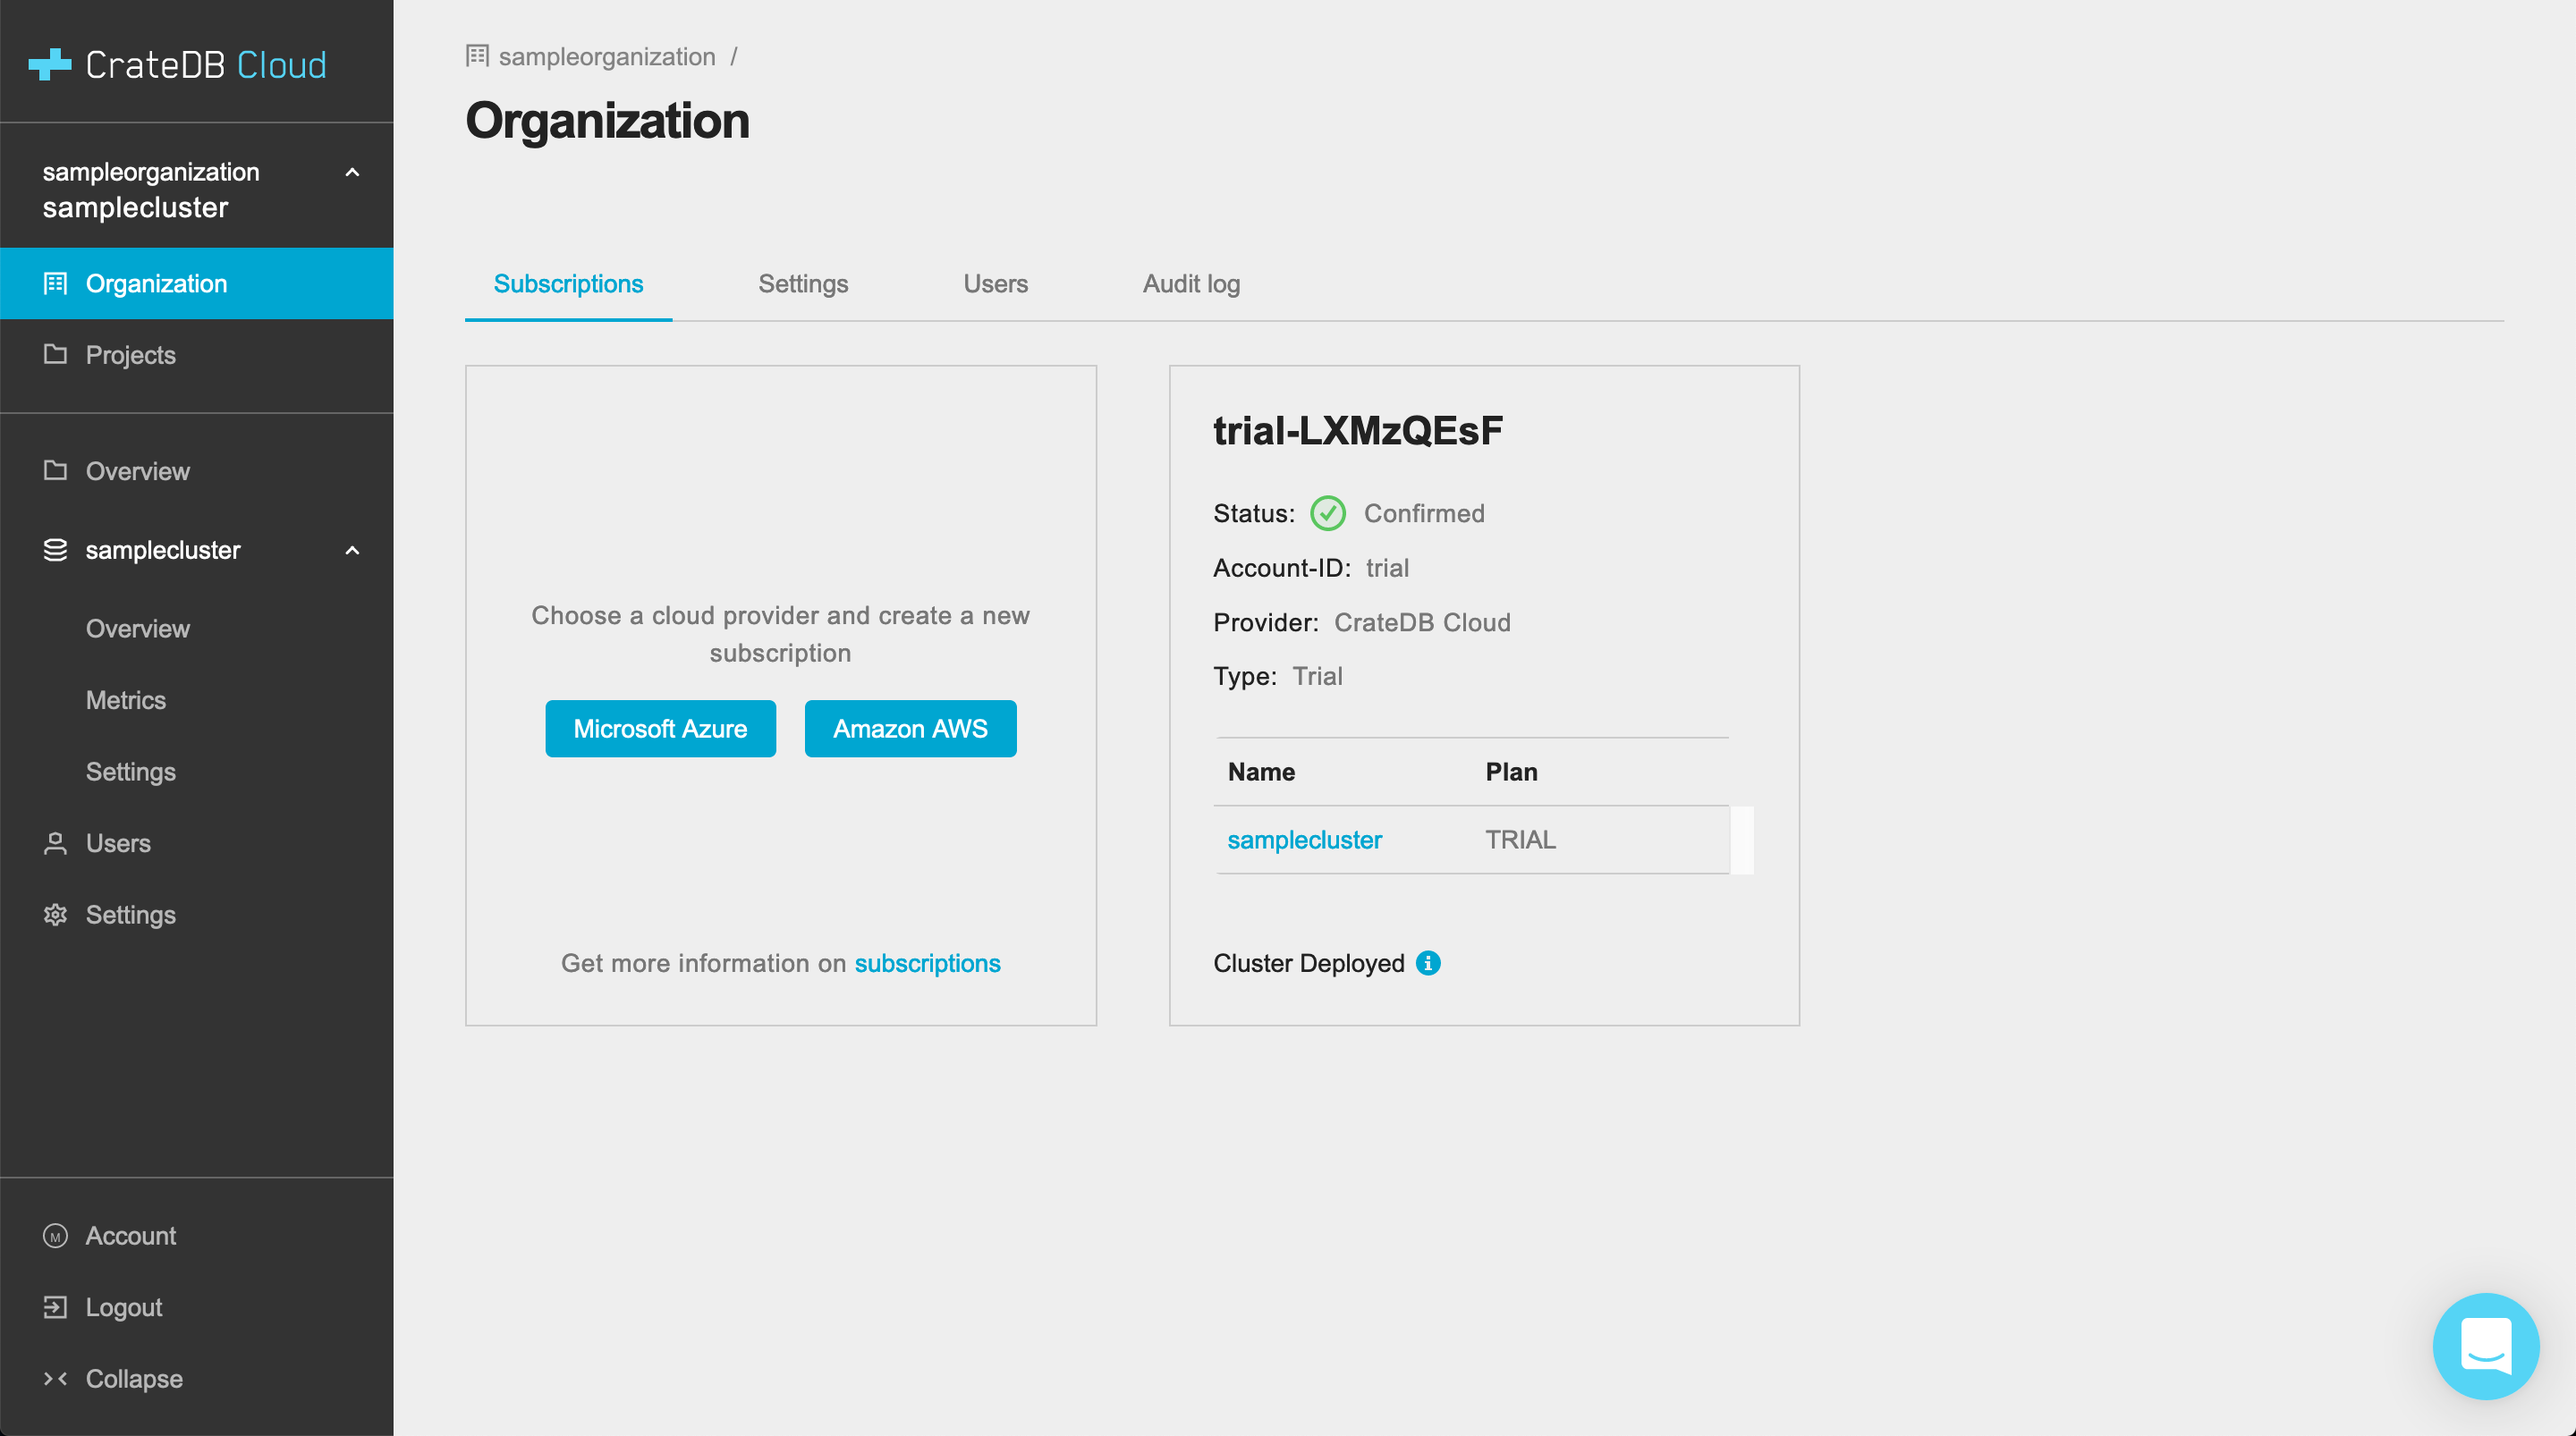
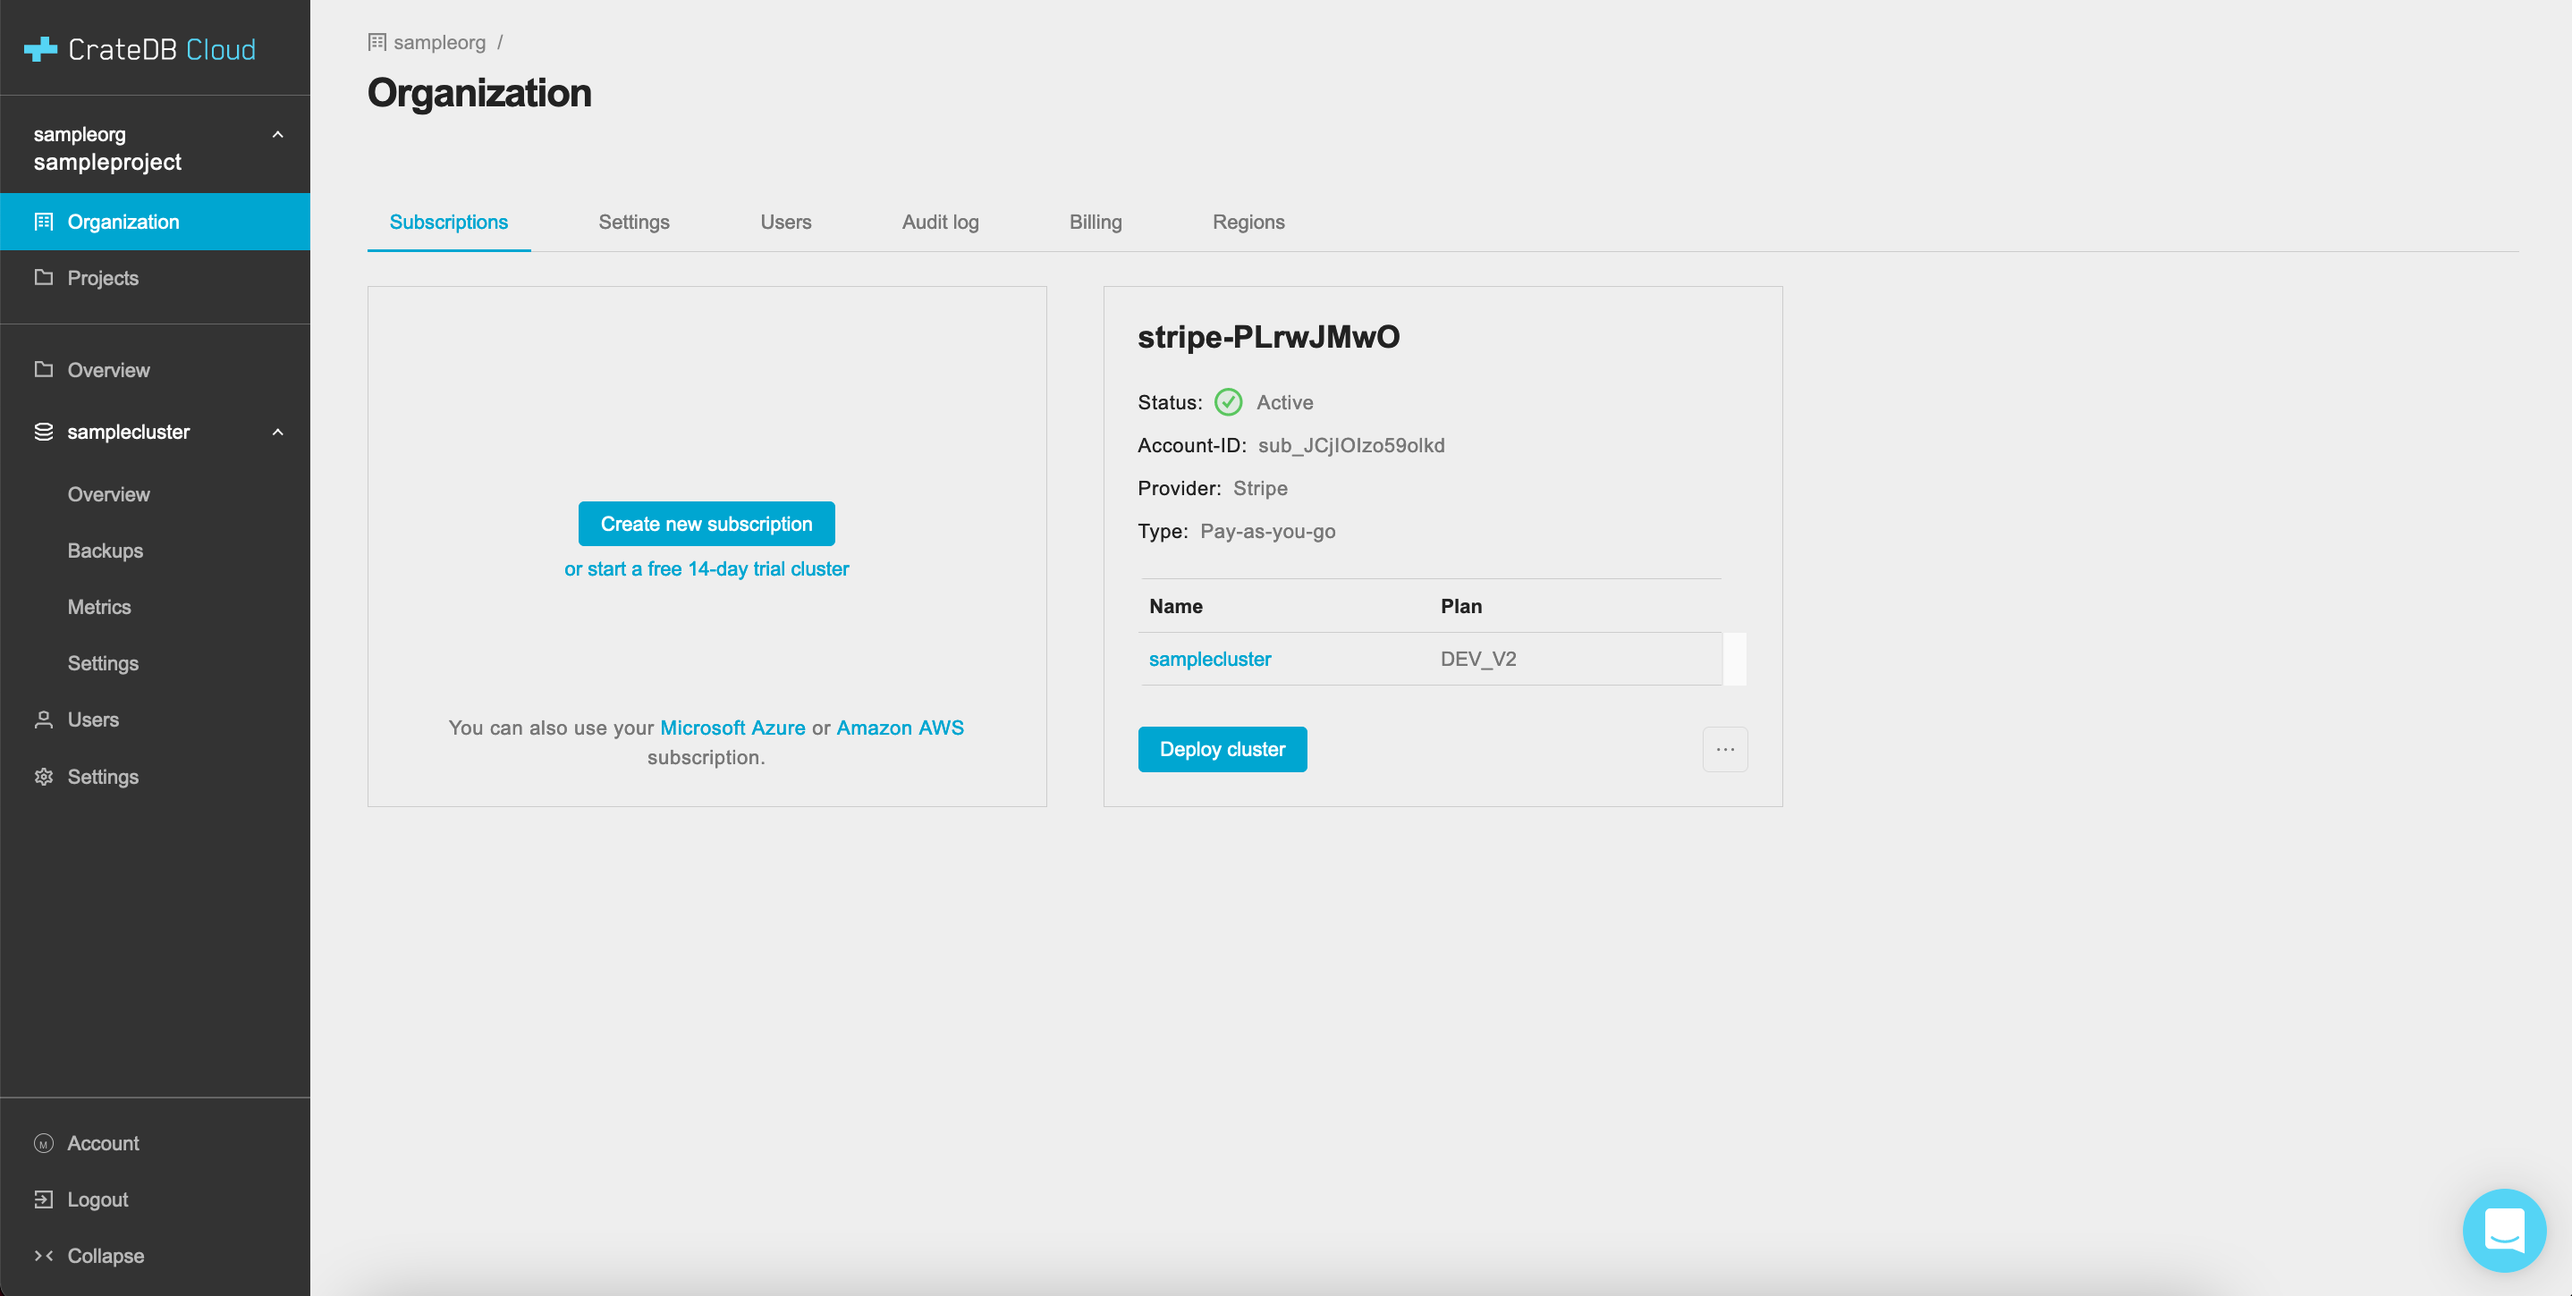
Refresh: Update to Console documentation to reflect UI changes

diff --git a/docs/overview.rst b/docs/overview.rst
@@ -53,8 +53,7 @@ If you don't have a Cloud Console account yet, follow the steps in the `signup
 tutorial`_. Select the authentication method you wish to use. From there, you
 will be given the option to sign up.
 
-Once signed in, you will be presented with your :ref:`organization overview
-<overview-org-overview>` on the Organization page.
+Once signed in, you will be presented with the Organization Overview.
 
 
 .. _overview-org-overview:
@@ -62,25 +61,25 @@ Once signed in, you will be presented with your :ref:`organization overview
 Organization
 ============
 
-The Organization page lists the organizations and projects you can access.
+The Organization Overview lists the organizations and projects you can access.
 
-If you follow the `tutorial`_ instructions and deploy a test cluster,
-your organization overview will look something like this:
+If you follow the `tutorial`_ instructions and deploy a test cluster, your
+Organization Overview will look something like this:
 
 .. image:: _assets/img/organization-overview.png
    :alt: Cloud Console organization overview
 
-The Organization screen consists of five tabs: *Subscriptions*, *Settings*,
-*Users*, the *Audit Log*, and finally *Billing*. By default it shows the
-Subscriptions tab, which displays two things. On the left, it shows the
-possible cloud providers and a link for creating a subscription with them. On
-the right, you will see your current subscription (if any). This panel also
+The Organization Overview consists of six tabs: *Subscriptions*, *Settings*,
+*Users*, the *Audit Log*, *Billing*, and finally, *Regions*. By default it
+shows the Subscriptions tab, which displays two things. On the left, it shows
+the possible cloud providers and a link for creating a subscription with them.
+On the right, you will see your current subscription (if any). This panel also
 shows subscription details: the status of the subscription, the subscription
 ID, the subscription cloud provider, the subscription type, and finally, any
 clusters deployed within the subscription with their respective subscription
 plans.
 
-The *Deploy cluster* button at the bottom left of any subscription box allows
+The *Deploy cluster* button at the bottom left of any subscription panel allows
 you to directly deploy clusters within that subscription. The button with three
 dots at the bottom right allows you to cancel that subscription.
 
@@ -155,6 +154,17 @@ On the right-hand side, you will see the billing information. This can be
 edited by using the pen icon at the top right.
 
 
+Organization Regions
+--------------------
+
+The Regions tab shows you the currently available regions for cluster
+deployment. Each panel shows the region, in other words a server location, and
+the corresponding cloud provider or subscription provider responsible for that
+region. Below each region panel you will find a button labeled *Deploy
+Cluster*. Clicking this will allow you to deploy a cluster directly into that
+region.
+
+
 .. _overview-projects:
 
 Projects
@@ -168,9 +178,10 @@ of deployment.
    :alt: Cloud Console projects overview
 
 The projects are selected by region. By default, the region dropdown menu is
-set to 'All'. To see projects deployed in specific regions, select that region
-from the menu. You can also create a new project for the organization in the
-selected region by clicking the *Create project* button in the top right.
+set to the region where your project is located (if any). To see projects
+deployed in specific regions, select that region from the menu. You can also
+create a new project for the organization in the selected region by clicking
+the *Create project* button in the top right.
 
 The cog icon next to each project takes you to the Project Settings page, in
 the menu simply called Settings, as :ref:`described further below
@@ -229,6 +240,7 @@ selected. It also displays metrics for the cluster.
 .. image:: _assets/img/cluster-overview.png
    :alt: Cloud Console cluster overview page
 
+
 Info
 ~~~~
 
@@ -274,8 +286,11 @@ information about the cluster. This includes:
 For more information on the CrateDB concepts used here, refer to the `CrateDB
 architecture documentation`_ or the :ref:`glossary<glossary>`.
 
-Metrics
-~~~~~~~
+
+.. _overview-cluster-overview-metrics:
+
+Configuration, Usage, and Metrics
+~~~~~~~~~~~~~~~~~~~~~~~~~~~~~~~~~
 
 On the rest of the page you will find various cluster metrics. In the center
 you will see an overview of general usage in the past week, including storage,
@@ -292,14 +307,34 @@ on the Cluster Metrics page, for which see below. This page can also be
 accessed by clicking the *View metrics* link at the top right.
 
 
+.. _overview-cluster-backups:
+
+Cluster Backups
+---------------
+
+On the Cluster Backups page you can see any backups of your cluster. The
+dropdown menu at the top left allows you to select the timespan of backups you
+want to see.
+
+.. image:: _assets/img/cluster-backups.png
+   :alt: Cloud Console cluster backups page
+
+Any backups are listed with timestamps on the left side, under Timestamp. In
+the middle you will see any tables to restore in the backup, under the category
+Tables, and on the right is a *Restore* button for restoring the backup from
+that timestamp, listed under Action.
+
+
 .. _overview-cluster-metrics:
 
 Cluster Metrics
 ---------------
 
-The Cluster Metrics page provides live visualizations of how the cluster is
-functioning. It shows two graph panels: one for the average response time of a
-query (in milliseconds) and one for the total number of queries per second.
+The Cluster Metrics page (not to be confused with the :ref:`metrics section of
+the Cluster Overview page <overview-cluster-overview-metrics>`) provides live
+visualizations of how the cluster is functioning. It shows two graph panels:
+one for the average response time of a query (in milliseconds) and one for the
+total number of queries per second.
 
 .. image:: _assets/img/cluster-metrics.png
    :alt: Cloud Console cluster metrics page
@@ -314,20 +349,40 @@ directly by hovering over the relevant point on the time axis (the X axis).
 Cluster Settings
 ----------------
 
-On the page for Cluster Settings you get a quick overview of the subscription
-plan configuration of the cluster.
+The Cluster Settings page has two tabs: Cluster Access and Cluster Scale. The
+default tab, Cluster Access, shows you the username and password you defined to
+access your cluster directly. By clicking *Edit* at the top right, you can
+change the password.
 
 .. image:: _assets/img/cluster-settings.png
    :alt: Cloud Console cluster settings page
 
+
+.. _overview-cluster-settings-scale:
+
+Cluster Scale
+~~~~~~~~~~~~~
+
 The blue box on the left shows the current cluster subscription plan, including
 the tier and the scale unit. The scale unit can also be adjusted on this page.
+
+.. image:: _assets/img/cluster-settings-scale.png
+   :alt: Cloud Console cluster scaling page
+
 Using the overview showing the resources and the price for different scale
 units based on the selected subscription plan and tier, you can simply click
 the *Edit scale unit* button to adjust the scaling to the desired level.
 
-You can also delete your cluster here by clicking the bin icon at the top
-right. It will prompt you for confirmation.
+.. NOTE::
+
+    Any promotions or discounts applicable to your cluster will be applied for
+    your organization as a whole at the end of the billing period. Due to
+    technical limitations, they may not be directly visible in the cluster
+    scale pricing shown here, but do not worry! This does not mean that your
+    promotion or discount is not functioning.
+
+You can also delete your cluster here by clicking the *Delete cluster* button
+at the top right. It will prompt you for confirmation.
 
 .. WARNING::
 
